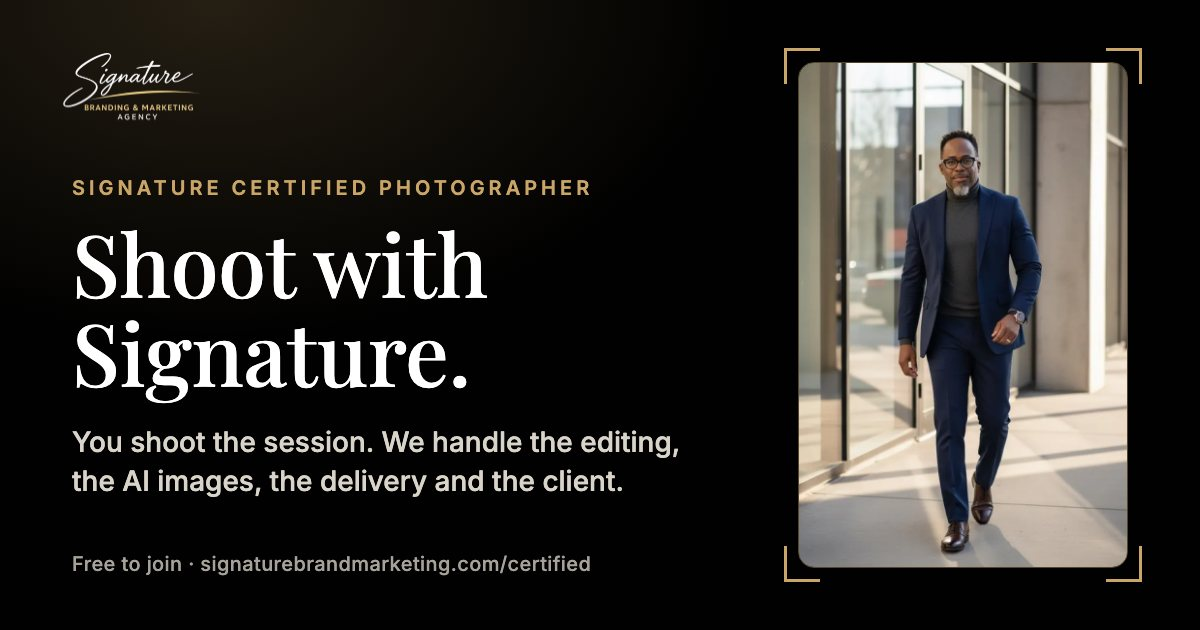
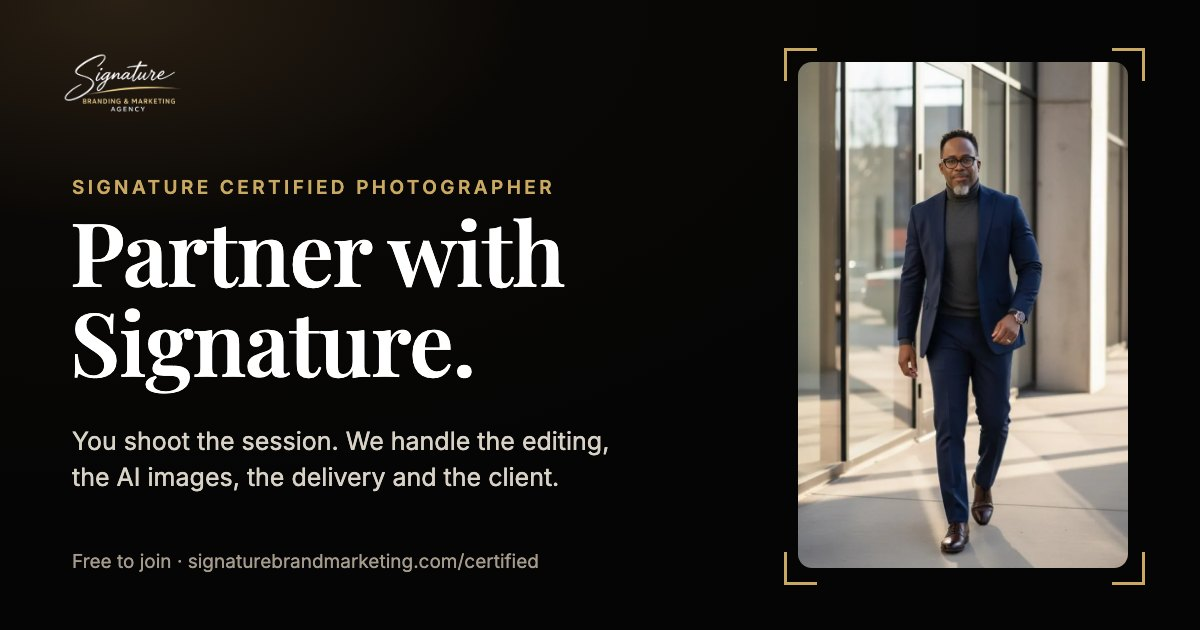
Certified draft: hero 'Partner with Signature.', contact Ken@SignatureBrandMarketing.com, new share image
Ken 10/31: headline Partner with Signature; partners@ isn't a real inbox,
so questions go to Ken's address. og.jpg re-rendered with the new headline.

diff --git a/certified/index.html b/certified/index.html
@@ -11,12 +11,12 @@
 <meta property="og:type" content="website">
 <meta property="og:site_name" content="Signature Branding &amp; Marketing">
 <meta property="og:url" content="https://signaturebrandmarketing.com/certified/">
-<meta property="og:title" content="Shoot with Signature. Become a Signature Certified Photographer.">
+<meta property="og:title" content="Partner with Signature. Become a Signature Certified Photographer.">
 <meta property="og:description" content="You shoot the session. We handle the editing, the AI images, the delivery and the client. Free to join.">
 <meta property="og:image" content="https://signaturebrandmarketing.com/certified/img/og.jpg">
 <meta property="og:image:width" content="1200">
 <meta property="og:image:height" content="630">
-<meta property="og:image:alt" content="Shoot with Signature. Become a Signature Certified Photographer.">
+<meta property="og:image:alt" content="Partner with Signature. Become a Signature Certified Photographer.">
 <meta name="twitter:card" content="summary_large_image">
 <link rel="icon" type="image/png" sizes="32x32" href="img/favicon-32.png">
 <link rel="icon" type="image/png" sizes="192x192" href="img/favicon-192.png">
@@ -273,7 +273,7 @@ footer a:hover{color:var(--fg);text-decoration:underline}
 
 <section class="hero" id="top"><div class="wrap">
   <p class="eyebrow">For headshot photographers</p>
-  <h1>Shoot with Signature.</h1>
+  <h1>Partner with Signature.</h1>
 
   <figure class="vfig">
     <!-- ================= KEN'S WELCOME VIDEO: SWAP IT IN HERE =================
@@ -438,9 +438,9 @@ footer a:hover{color:var(--fg);text-decoration:underline}
   <div class="ask">
     <p class="q">Questions first? Email us.</p>
     <div class="mailbox">
-      <span class="addr" id="partnersEmail">partners@signaturebrandmarketing.com</span>
-      <button type="button" class="btn ghost sm" data-copy="partners@signaturebrandmarketing.com">Copy</button>
-      <a class="btn ghost sm" href="mailto:partners@signaturebrandmarketing.com">Email</a>
+      <span class="addr" id="partnersEmail">Ken@SignatureBrandMarketing.com</span>
+      <button type="button" class="btn ghost sm" data-copy="Ken@SignatureBrandMarketing.com">Copy</button>
+      <a class="btn ghost sm" href="mailto:Ken@SignatureBrandMarketing.com">Email</a>
     </div>
     <p class="copy-status" id="copyStatus" role="status" aria-live="polite"></p>
   </div>
